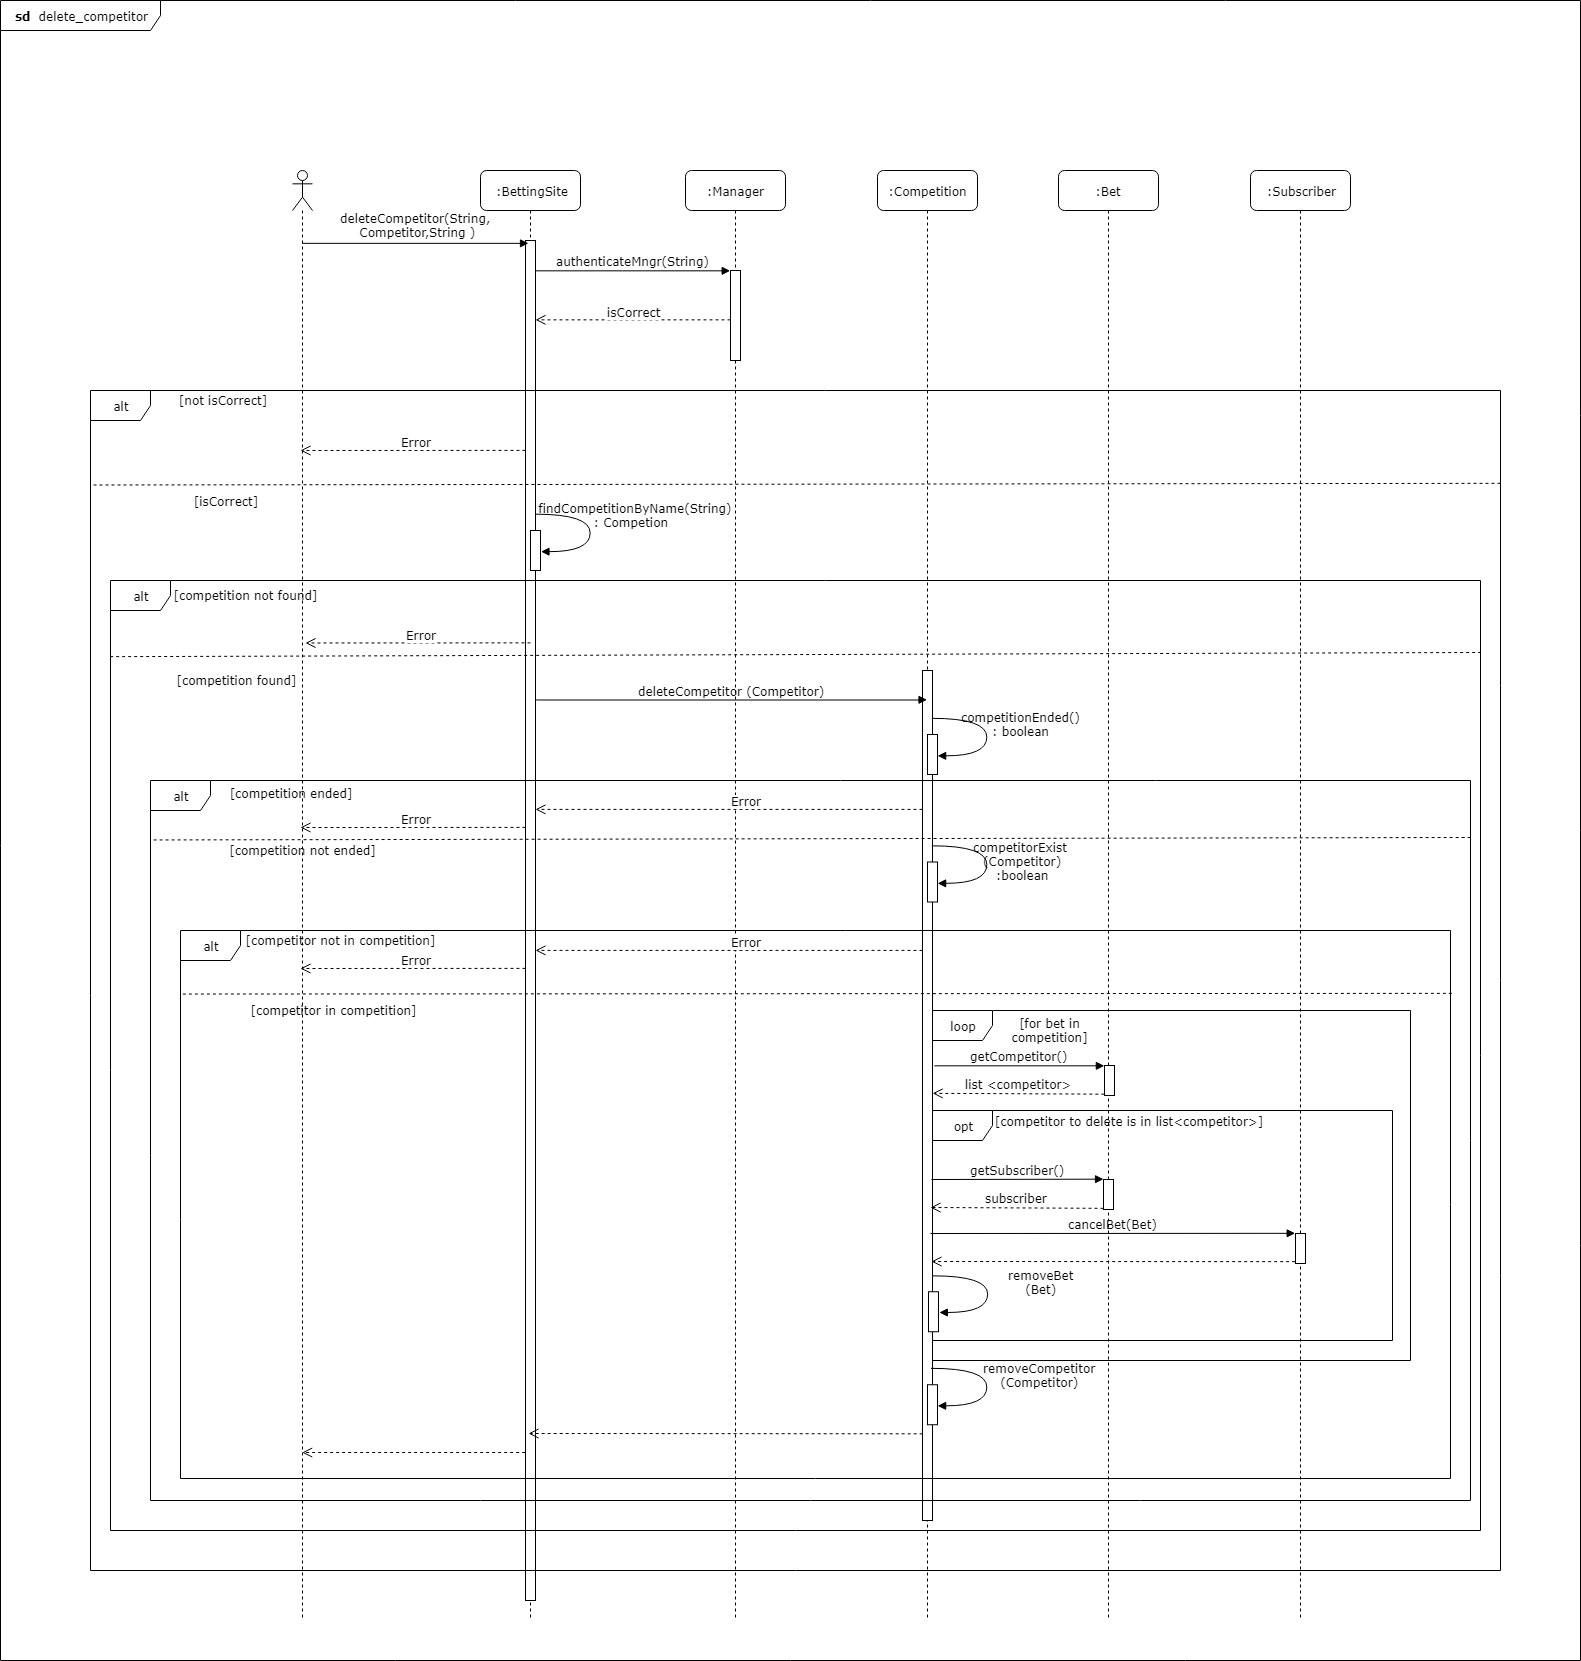
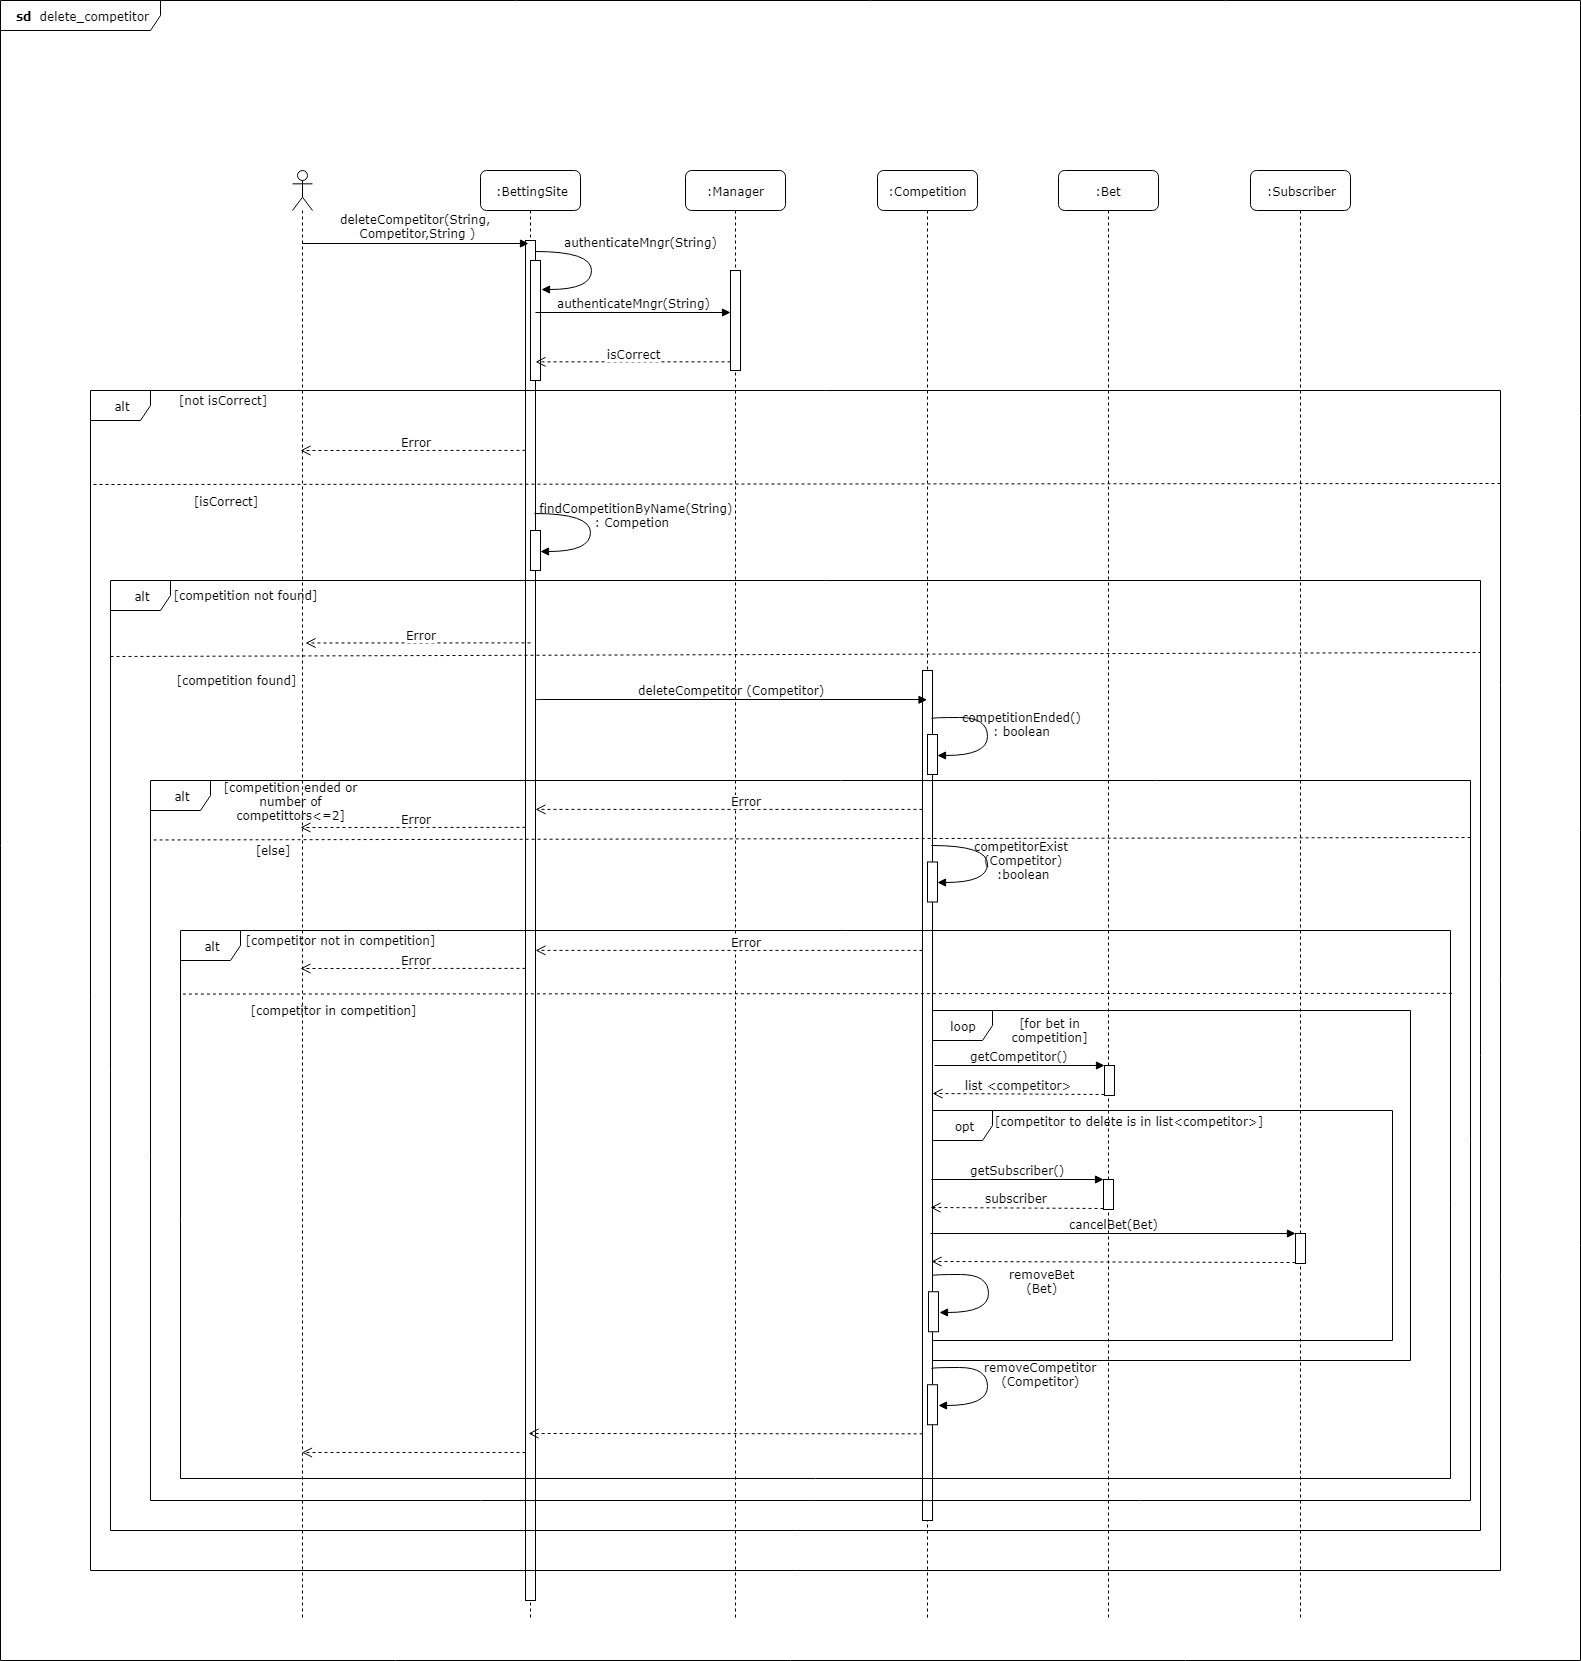
Competitor lot and updating diagrams

diff --git a/code/src/fr/uv1/bettingServices/Competition.java b/code/src/fr/uv1/bettingServices/Competition.java
@@ -4,6 +4,7 @@ import fr.uv1.bettingServices.exceptions.CompetitionException;
 import fr.uv1.bettingServices.exceptions.ExistingCompetitorException;
 import fr.uv1.utils.MyCalendar;
 
+import java.util.ArrayList;
 import java.util.HashSet;
 import java.util.Iterator;
 
@@ -65,11 +66,16 @@ public class Competition {
     }
 
     public void deleteCompetitor (Competitor competitor) throws  CompetitionException, ExistingCompetitorException {
-        if (this.competitionEnded())
-            throw new CompetitionException();
+        if (this.competitionEnded() || (this.competitorsList.size()<=2)) throw new CompetitionException();
         if (!(this.competitorExist(competitor)))
             throw new ExistingCompetitorException();
-        competitorsList.remove(competitor);
+        for (Bet bet : betsList) {
+            if (bet.getCompetitors().contains(competitor)){
+                bet.getSubscriber().cancelBet(bet);
+                this.removeBet(bet);
+            }
+        }
+        this.removeCompetitor(competitor);
     }
 
     public void cancelAllBets() {
@@ -89,6 +95,15 @@ public class Competition {
             return false;
         Competition c = (Competition) o;
         return c.name == name;
+    }
+
+    private void removeCompetitor (Competitor competitor) {
+        this.competitorsList.remove(competitor);
+
+    }
+
+    private  void removeBet (Bet bet) {
+        this.betsList.remove(bet);
     }
 
 

diff --git a/code/src/fr/uv1/bettingServices/Team.java b/code/src/fr/uv1/bettingServices/Team.java
@@ -9,7 +9,12 @@ import java.util.HashSet;
 public class Team implements Competitor {
 
     private String name;
-    Collection<Competitor> members = new HashSet<Competitor>();
+
+    public Collection<Competitor> getMembers() {
+        return members;
+    }
+
+    private Collection<Competitor> members = new HashSet<Competitor>();
 
     public Team(String name) {
     this.name = name;
@@ -25,6 +30,7 @@ public class Team implements Competitor {
         if ((this.members.contains(member))) throw new ExistingCompetitorException();
         if (!(member.hasValidName())) throw new BadParametersException();
         this.members.add(member);
+        System.out.println("adding");
     }
 
     @Override

diff --git a/code/src/fr/uv1/bettingServices/RunTest.java b/code/src/fr/uv1/bettingServices/RunTest.java
@@ -1,0 +1,14 @@
+package fr.uv1.bettingServices;
+
+public class RunTest {
+    public static void main(String[] args) {
+        InsideTest insideTest = new InsideTest();
+        insideTest.testTeamWithCompetitorsOK();
+        System.out
+                .println(insideTest.competitorTeams.size());
+
+
+
+    }
+
+}

diff --git a/code/src/fr/uv1/bettingServices/BettingSite.java b/code/src/fr/uv1/bettingServices/BettingSite.java
@@ -673,4 +673,8 @@ public class BettingSite implements Betting {
     private Competition findCompetitionByName (String name) {
         return null;
     }
+
+    public String getManagerPassword () {
+        return "password";
+    }
 }
